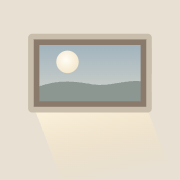
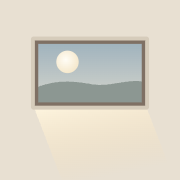
Open like a film; refine type, frames and contact
- The window takes cinema proportions (2.39:1). On arrival the room
  is dark and only the window glows; the house lights come up with
  the sunlight and the name appears like an opening title.
- Newsreader for names and reading text; the sans stays for small
  details. Lighter, thinner window frame; portrait shown as a matted
  print. Removed the glint across the portrait.
- Contact: both email addresses on one line at link size, and links
  to Google Scholar, LinkedIn and X. Intro reads "I study".

Changed region(s): [[0.1389, 0.1667, 0.8611, 0.6389]]

diff --git a/styles.css b/styles.css
@@ -21,16 +21,17 @@
   --tie-rim: rgba(255, 252, 246, .55);
 
   --sans: 'Pretendard Variable', Pretendard, -apple-system, BlinkMacSystemFont, 'Apple SD Gothic Neo', 'Segoe UI', sans-serif;
-  --serif: 'Noto Serif KR', 'AppleMyungjo', 'Nanum Myeongjo', Georgia, serif;
+  --serif: 'Newsreader', 'Iowan Old Style', Georgia, serif;
 
   --shell: 1240px;
   --gutter: clamp(20px, 5vw, 56px);
   --spine: 34%;
   --gap: clamp(28px, 3.4vw, 48px);
-  --opening: clamp(340px, 40vw, 540px);
-  --opening-h: clamp(230px, 26vw, 340px);
+  /* The window has the proportions of a cinema screen (2.39:1). */
+  --opening: clamp(560px, 66vw, 940px);
+  --ratio: 2.39;
   --axis: .3;
-  --depth: clamp(12px, 1.3vw, 18px);
+  --depth: clamp(8px, .85vw, 12px);
 }
 
 * { box-sizing: border-box; }
@@ -40,8 +41,9 @@ body {
   overflow-x: clip;
   color: var(--text);
   background-color: var(--wall);
-  font-family: var(--sans);
-  font-size: 16px;
+  /* Newsreader for reading; the sans is kept for small, factual details (see below). */
+  font-family: var(--serif);
+  font-size: 17.5px;
   line-height: 1.7;
   -webkit-font-smoothing: antialiased;
   /* Concrete formwork: panel seams and six form-tie holes per panel, after Ando. */
@@ -94,22 +96,37 @@ ol { list-style: none; }
   background: radial-gradient(ellipse 50% 42% at 56% 78%, rgba(240, 200, 150, .16), transparent 70%);
 }
 
+/* Lights down: on arrival the room is dark and only the window glows.
+   The house lights come up with the sunlight, and then the name appears like an opening title. */
+.hero::after {
+  content: '';
+  position: absolute; inset: 0;
+  z-index: 3;
+  pointer-events: none;
+  background: radial-gradient(ellipse 80% 70% at 42% 36%, rgba(38, 31, 26, .82), rgba(24, 19, 16, .94));
+  animation: house-lights 2.4s cubic-bezier(.45, 0, .2, 1) 1.5s both;
+}
+@keyframes house-lights { from { opacity: 1; } to { opacity: 0; visibility: hidden; } }
+.hero-text h1 { animation: title-in 2s cubic-bezier(.2, .6, .2, 1) 3.1s both; }
+.hero-text p { animation: title-in 1.6s cubic-bezier(.2, .6, .2, 1) 3.6s both; }
+@keyframes title-in { from { opacity: 0; transform: translateY(10px); letter-spacing: .04em; } to { opacity: 1; transform: none; } }
 .top-nav { display: flex; justify-content: flex-end; gap: 28px; padding-block: 28px; font-size: 14px; color: var(--text-muted); position: relative; z-index: 2; }
 .top-nav a:hover { color: var(--text-strong); }
 
 .hero-grid { flex: 1; display: grid; grid-template-columns: var(--spine) 1fr; grid-template-rows: 1fr auto; padding-bottom: clamp(48px, 9vh, 96px); }
 
 .opening {
+  filter: drop-shadow(0 24px 30px rgba(70, 50, 30, .12));
   grid-column: 1 / -1;
   grid-row: 1;
   justify-self: start;
   align-self: center;
   margin-left: calc(var(--spine) - var(--opening) * var(--axis));
   width: var(--opening);
-  height: var(--opening-h);
+  height: calc(var(--opening) / var(--ratio));
   margin-block: 2vh 48px;
   position: relative;
-  z-index: 1;
+  z-index: 4;
 }
 /* The view outside, set back by the thickness of the wall: a pale, hazy dusk. */
 .view {
@@ -149,14 +166,14 @@ ol { list-style: none; }
 .forest .ridge { fill: #a3aea9; }
 .forest .treeline { fill: #8c9792; }
 
-.frame { position: absolute; inset: var(--depth); border: 5px solid var(--frame); pointer-events: none; }
+.frame { position: absolute; inset: var(--depth); border: 2px solid #7f7064; box-shadow: inset 0 0 0 1px rgba(255, 250, 240, .18); pointer-events: none; }
 
 /* The four faces of an opening cut into the wall, lit softly from the left. */
 .jamb { position: absolute; inset: 0; pointer-events: none; }
-.jamb-top { clip-path: polygon(0 0, 100% 0, calc(100% - var(--depth)) var(--depth), var(--depth) var(--depth)); background: linear-gradient(to right, #d2c7b5, #c9bdab); }
-.jamb-left { clip-path: polygon(0 0, var(--depth) var(--depth), var(--depth) calc(100% - var(--depth)), 0 100%); background: linear-gradient(to bottom, #e2d8c7, #eee3d1); }
-.jamb-right { clip-path: polygon(100% 0, 100% 100%, calc(100% - var(--depth)) calc(100% - var(--depth)), calc(100% - var(--depth)) var(--depth)); background: linear-gradient(to bottom, #c1b5a3, #c8bcaa); }
-.sill { clip-path: polygon(0 100%, var(--depth) calc(100% - var(--depth)), calc(100% - var(--depth)) calc(100% - var(--depth)), 100% 100%); background: linear-gradient(to right, #f1e8da, #e2d9cb 55%, #d3cbbf); }
+.jamb-top { clip-path: polygon(0 0, 100% 0, calc(100% - var(--depth)) var(--depth), var(--depth) var(--depth)); background: linear-gradient(to right, #d9cfbf, #d2c7b6); }
+.jamb-left { clip-path: polygon(0 0, var(--depth) var(--depth), var(--depth) calc(100% - var(--depth)), 0 100%); background: linear-gradient(to bottom, #e6ddcd, #efe6d6); }
+.jamb-right { clip-path: polygon(100% 0, 100% 100%, calc(100% - var(--depth)) calc(100% - var(--depth)), calc(100% - var(--depth)) var(--depth)); background: linear-gradient(to bottom, #cfc4b3, #d4c9b8); }
+.sill { clip-path: polygon(0 100%, var(--depth) calc(100% - var(--depth)), calc(100% - var(--depth)) calc(100% - var(--depth)), 100% 100%); background: linear-gradient(to right, #f4ece0, #e8dfd2 55%, #ddd5c9); }
 
 /* Light pouring in through the window and falling down into the room, with dust in it.
    Its shape is worked out from the window in script.js. */
@@ -173,17 +190,21 @@ ol { list-style: none; }
 @keyframes shimmer { from { opacity: .35; } to { opacity: 1; } }
 
 /* The portrait: a smaller niche in the same wall. */
-.niche { position: relative; --depth: clamp(8px, .9vw, 12px); width: clamp(160px, 15vw, 210px); aspect-ratio: 4 / 5; max-width: 100%; }
-.niche-back { position: absolute; inset: var(--depth); overflow: hidden; background: var(--wall-deep); box-shadow: inset 0 8px 14px -6px rgba(60, 45, 30, .3); }
-.niche-back::after {
-  content: '';
-  position: absolute; inset: -20% -60%;
-  background: linear-gradient(105deg, transparent 40%, rgba(255, 246, 225, .55) 50%, transparent 60%);
-  transform: translateX(-70%);
-  pointer-events: none;
+.niche {
+  --mat: clamp(9px, .8vw, 12px);
+  position: relative;
+  width: clamp(160px, 15vw, 210px);
+  aspect-ratio: 4 / 5;
+  max-width: 100%;
+  background: linear-gradient(160deg, #f6f1e8, #ece4d7);
+  box-shadow:
+    0 0 0 1px rgba(90, 70, 50, .12),
+    0 2px 4px -2px rgba(70, 50, 30, .2),
+    0 30px 44px -28px rgba(70, 50, 30, .5);
 }
-.niche.glint .niche-back::after { animation: glint 2.4s cubic-bezier(.4, 0, .2, 1) .3s forwards; }
-@keyframes glint { to { transform: translateX(70%); } }
+.niche-back { position: absolute; inset: var(--mat); overflow: hidden; background: var(--wall-deep); }
+/* A hairline and a little depth where the print meets the mat. */
+.niche-back::after { content: ''; position: absolute; inset: 0; pointer-events: none; box-shadow: inset 0 0 0 1px rgba(40, 30, 20, .14), inset 0 8px 12px -10px rgba(40, 30, 20, .4); }
 .niche-placeholder { position: absolute; inset: 0; width: 100%; height: 100%; fill: rgba(120, 100, 80, .14); }
 .niche-back img { position: relative; display: block; width: 100%; height: 100%; object-fit: cover; object-position: 50% 30%; filter: saturate(.82) sepia(.1) contrast(.95); }
 
@@ -252,13 +273,22 @@ ol { list-style: none; }
   transition: opacity 1.6s ease;
 }
 .arrived .landing::before { opacity: 1; }
-.emails { display: flex; flex-direction: column; align-items: flex-start; gap: 4px; }
-.email { position: relative; font-size: clamp(20px, 2.2vw, 26px); color: var(--text-strong); line-height: 1.8; border-bottom: 1px solid rgba(201, 147, 95, .35); transition: border-color 1.2s; }
+.emails { display: flex; flex-wrap: wrap; align-items: baseline; gap: 4px 10px; font-size: 15px; }
+.emails .sep { color: var(--text-muted); }
+.email { position: relative; color: var(--text-strong); line-height: 1.7; padding-bottom: 1px; border-bottom: 1px solid rgba(201, 147, 95, .35); transition: border-color 1.2s; }
 .email:hover, .arrived .email { border-bottom-color: var(--lamp); }
 .elsewhere { position: relative; margin-top: 14px; display: flex; flex-wrap: wrap; gap: 8px 24px; font-size: 15px; color: var(--text-muted); }
 
 .site-foot { display: grid; grid-template-columns: var(--spine) 1fr; padding-block: clamp(120px, 14vw, 180px) 40px; font-size: 13px; color: var(--text-muted); }
 .site-foot > span { grid-column: 2; padding-left: var(--gap); }
+
+/* Small, factual details stay in the sans. */
+.top-nav, .row-label, .when, .works .role, .works .links, .emails, .elsewhere, .more, .site-foot, .cv-top, .entry .date, .entry .role, .skills dt { font-family: var(--sans); }
+.hero-text h1 { font-weight: 350; letter-spacing: -.02em; font-size: clamp(40px, 4.8vw, 64px); }
+.lead { font-weight: 360; }
+.works h3 { font-size: 20px; letter-spacing: -.005em; }
+.works p:not(.when):not(.role) { font-size: 16.5px; }
+.works .role { font-size: 15px; }
 
 /* ---------- CV ---------- */
 
@@ -298,8 +328,8 @@ body.day { --tie: rgba(80, 60, 40, .06); --tie-rim: rgba(255, 252, 246, .3); }
 /* ---------- Narrow screens ---------- */
 
 @media (max-width: 760px) {
-  :root { --opening: calc(100vw - var(--gutter) * 2); --opening-h: 230px; --axis: .14; --depth: 9px; --gap: 24px; }
-  body { font-size: 15px; }
+  :root { --opening: calc(100vw - var(--gutter) * 2); --ratio: 1.55; --axis: .14; --depth: 6px; --gap: 24px; }
+  body { font-size: 16.5px; }
   .shell { --spine: calc(var(--opening) * var(--axis)); }
   .hero-grid, .row, .cv-head, .cv-section, .site-foot { grid-template-columns: var(--spine) 1fr; }
   .top-nav { gap: 22px; }
@@ -321,7 +351,8 @@ body.day { --tie: rgba(80, 60, 40, .06); --tie-rim: rgba(255, 252, 246, .3); }
 
 @media (prefers-reduced-motion: reduce) {
   html { scroll-behavior: auto; }
-  .sun, .cloud, .view::before, .shaft, .shaft-rays path, .shaft-motes i, .niche.glint .niche-back::after { animation: none; }
+  .sun, .cloud, .view::before, .shaft, .shaft-rays path, .shaft-motes i, .hero::after, .hero-text h1, .hero-text p { animation: none; }
+  .hero::after { display: none; }
   .works li::before { transition: none; }
   .view::before { opacity: 0; }
   .email, .landing::before { transition: none; }

diff --git a/index.html b/index.html
@@ -20,7 +20,7 @@
   <link rel="apple-touch-icon" href="assets/apple-touch-icon.png">
   <link rel="preconnect" href="https://fonts.googleapis.com">
   <link rel="preconnect" href="https://fonts.gstatic.com" crossorigin>
-  <link rel="stylesheet" href="https://fonts.googleapis.com/css2?family=Noto+Serif+KR:wght@300;400&display=swap">
+  <link rel="stylesheet" href="https://fonts.googleapis.com/css2?family=Newsreader:ital,opsz,wght@0,6..72,300..600;1,6..72,300..500&display=swap">
   <link rel="stylesheet" href="https://cdn.jsdelivr.net/gh/orioncactus/pretendard@v1.3.9/dist/web/variable/pretendardvariable-dynamic-subset.min.css">
   <link rel="stylesheet" href="styles.css">
   <script src="script.js" defer></script>
@@ -87,14 +87,10 @@
             <svg class="niche-placeholder" viewBox="0 0 80 100" aria-hidden="true"><circle cx="40" cy="38" r="15"/><path d="M12 100c2-22 13-33 28-33s26 11 28 33z"/></svg>
             <img src="assets/portrait.jpg" alt="Portrait of Suchan Lee" width="960" height="952" onerror="this.remove()">
           </div>
-          <span class="jamb jamb-top"></span>
-          <span class="jamb jamb-left"></span>
-          <span class="jamb jamb-right"></span>
-          <span class="jamb sill"></span>
         </div>
       </div>
       <div class="row-body">
-        <p class="lead">I work on language models, and my long-term goal is to build human-inspired AI.</p>
+        <p class="lead">I study language models, and my long-term goal is to build human-inspired AI.</p>
         <p>Lately I’m interested in looped transformers, diffusion language models, and latent reasoning.</p>
       </div>
     </section>
@@ -192,9 +188,11 @@
         <div class="landing">
           <p class="emails">
             <a class="email" href="mailto:leesc0324@postech.ac.kr">leesc0324@postech.ac.kr</a>
+            <span class="sep" aria-hidden="true">/</span>
             <a class="email" href="mailto:leesc0324@gmail.com">leesc0324@gmail.com</a>
           </p>
           <p class="elsewhere">
+            <a class="quiet-link" href="https://scholar.google.com/citations?user=P--O9rEAAAAJ&amp;hl=en" target="_blank" rel="noopener noreferrer">Google Scholar</a>
             <a class="quiet-link" href="https://github.com/isuchan0212" target="_blank" rel="noopener noreferrer">GitHub</a>
             <a class="quiet-link" href="assets/cv.pdf" target="_blank" rel="noopener">CV</a>
             <a class="quiet-link" href="https://www.linkedin.com/in/suchan-lee-88bb9a222/" target="_blank" rel="noopener noreferrer">LinkedIn</a>

diff --git a/cv.html b/cv.html
@@ -9,7 +9,7 @@
   <link rel="icon" href="assets/favicon.svg" type="image/svg+xml">
   <link rel="preconnect" href="https://fonts.googleapis.com">
   <link rel="preconnect" href="https://fonts.gstatic.com" crossorigin>
-  <link rel="stylesheet" href="https://fonts.googleapis.com/css2?family=Noto+Serif+KR:wght@300;400&display=swap">
+  <link rel="stylesheet" href="https://fonts.googleapis.com/css2?family=Newsreader:ital,opsz,wght@0,6..72,300..600;1,6..72,300..500&display=swap">
   <link rel="stylesheet" href="https://cdn.jsdelivr.net/gh/orioncactus/pretendard@v1.3.9/dist/web/variable/pretendardvariable-dynamic-subset.min.css">
   <link rel="stylesheet" href="styles.css">
   <script src="script.js" defer></script>

diff --git a/script.js b/script.js
@@ -99,14 +99,3 @@ if (document.querySelector('.shaft')) {
   addEventListener('scroll', look, { passive: true });
   look();
 }
-
-// A glint of sunlight crosses the portrait glass once, when it comes into view.
-const niche = document.querySelector('.about .niche');
-if (niche && 'IntersectionObserver' in window) {
-  const seen = new IntersectionObserver(([entry]) => {
-    if (!entry.isIntersecting) return;
-    niche.classList.add('glint');
-    seen.disconnect();
-  }, { threshold: .6 });
-  seen.observe(niche);
-}

diff --git a/README.md b/README.md
@@ -33,10 +33,10 @@ npm run check
 - 빛바랜 크림 베이지 벽 하나에 낙수장(Fallingwater)식 가로 창 하나. 창밖은 옅은 하늘색 하늘과 낮은 숲 능선, 그리고 해입니다. 벽에는 잎 그림자가 옅게 흔들립니다.
 - 색은 베이지 위주에 창밖의 흐린 하늘색만 포인트로 씁니다. 전체에 옅은 필름 그레인을 덮어 오래된 사진처럼 바랜 느낌을 냅니다.
 - 해가 뜨고 나면 창 전체에서 넓은 빛이 방 안으로 비스듬히 쏟아집니다. 그 안에 더 밝은 빛줄기 네 가닥이 천천히 일렁이고 먼지가 떠다닙니다(모양은 `script.js`가 창 위치로 계산). Contact에 오면 이메일 옆에 등이 켜지듯 주변이 밝아집니다.
-- 페이지를 열면 해가 능선 위로 떠오르고(하늘도 함께 밝아짐). 창 유리에는 옅은 반사광이 있고, 구름 두 조각이 아주 느리게 흐릅니다.
+- 창은 영화 스크린 비율(2.39:1)입니다. 페이지를 열면 극장처럼 방이 어둡고 창만 밝은 상태에서 해가 능선 위로 떠오르고, 빛이 쏟아지며 방에 불이 들어온 뒤 이름이 오프닝 타이틀처럼 나타납니다(약 5초, 한 번만). 창 유리에는 옅은 반사광이 있고, 구름 두 조각이 아주 느리게 흐릅니다.
 - 섹션 이름이 화면 위쪽으로 올라오면 라벨이 따뜻한 색으로 물듭니다.
 - 움직임 줄이기 설정을 켠 사용자에게는 모든 애니메이션이 꺼집니다.
-- 글꼴은 Pretendard(본문)와 Noto Serif KR(이름, 인용)을 CDN으로 불러옵니다.
+- 글꼴은 Newsreader(이름과 본문)와 Pretendard(날짜, 섹션 이름 같은 작은 정보)를 CDN으로 불러옵니다.
 - JavaScript가 없어도 모든 내용과 링크는 그대로 보입니다. 창에서 쏟아지는 빛은 그려지지 않습니다.
 
 콘텐츠는 2026 CV를 바탕으로 정리했습니다. 내용이 바뀌면 `index.html`과 `assets/cv.pdf`를 함께 갱신하세요.
